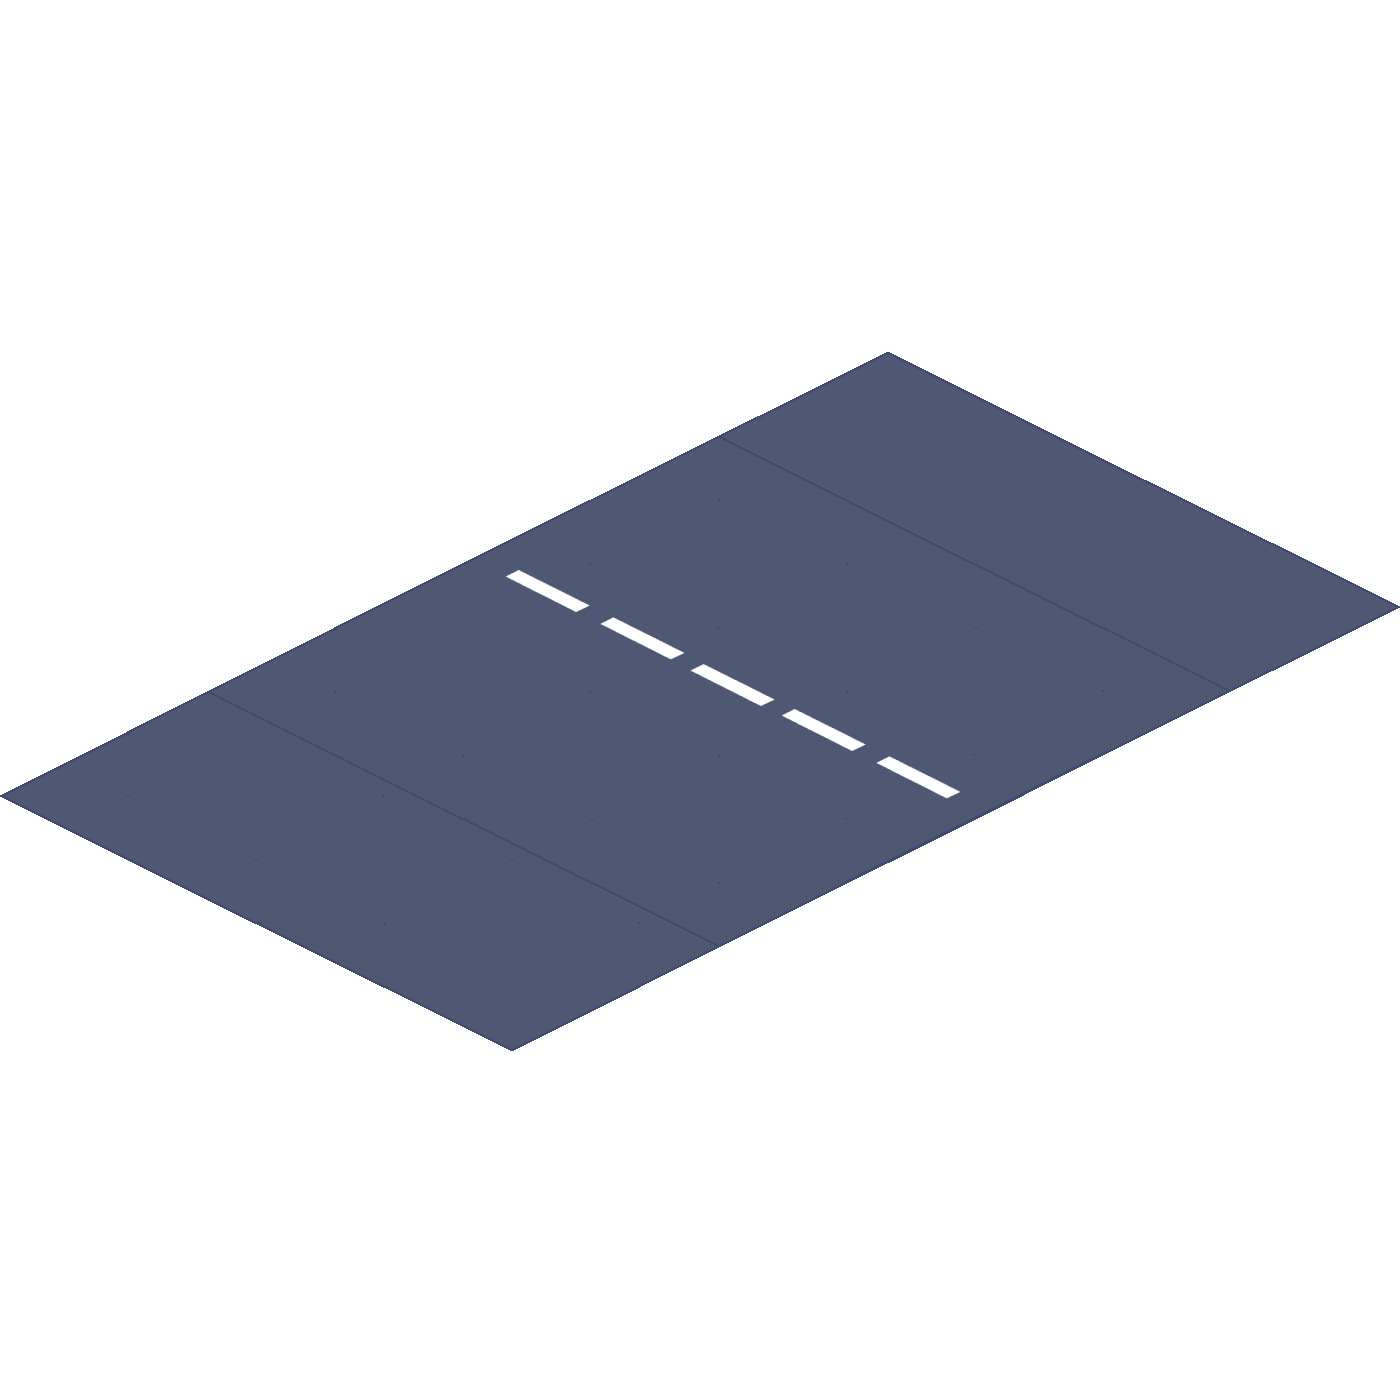
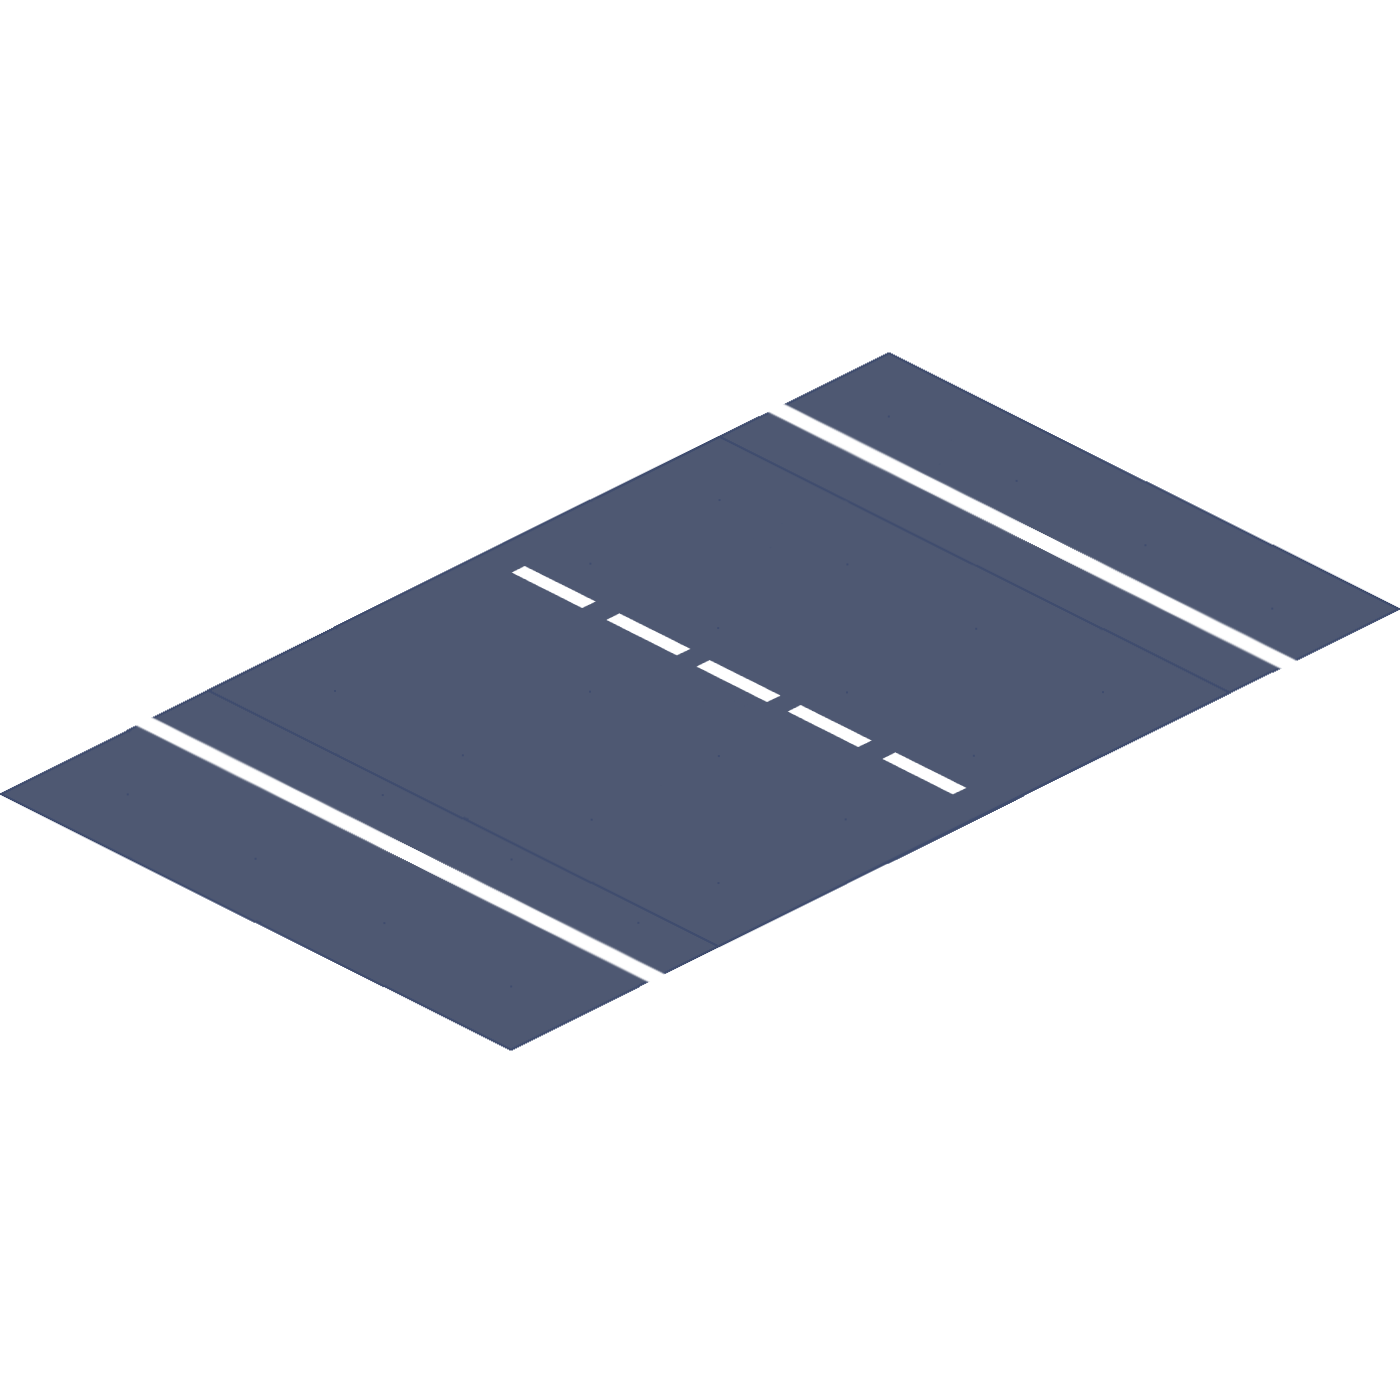
road marks graphics updatee

diff --git a/src/scenes/GamePlayScene.ts b/src/scenes/GamePlayScene.ts
@@ -426,8 +426,8 @@ export class GamePlayScene extends Container implements IScene {
 
 				const sprite: GameObjectSprite = new GameObjectSprite(Constants.getRandomTexture(ConstructType.ROAD_MARK));
 
-				sprite.x = this.roadMarkSizeWidth * i - (this.roadMarkXyAdjustment * i);
-				sprite.y = (this.roadMarkSizeHeight / 2) * i - ((this.roadMarkXyAdjustment / 2) * i);
+				sprite.x = (this.roadMarkSizeWidth * i) - (this.roadMarkXyAdjustment * i);
+				sprite.y = ((this.roadMarkSizeHeight / 2) * i) - (((this.roadMarkXyAdjustment) / 2) * i);
 				sprite.width = this.roadMarkSizeWidth;
 				sprite.height = this.roadMarkSizeHeight;
 
@@ -449,7 +449,7 @@ export class GamePlayScene extends Container implements IScene {
 
 			if (gameObject) {
 
-				gameObject.setPosition((gameObject.width * -1) - 730, gameObject.height * -1);
+				gameObject.setPosition((gameObject.width * -1) - 748, gameObject.height * -1);
 				gameObject.enableRendering();
 
 				this.roadMarkPopDelay = this.roadMarkPopDelayDefault;
